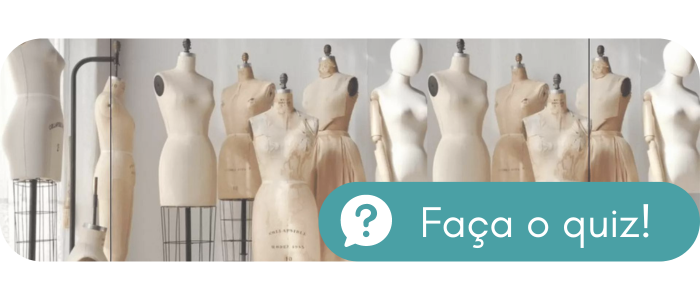
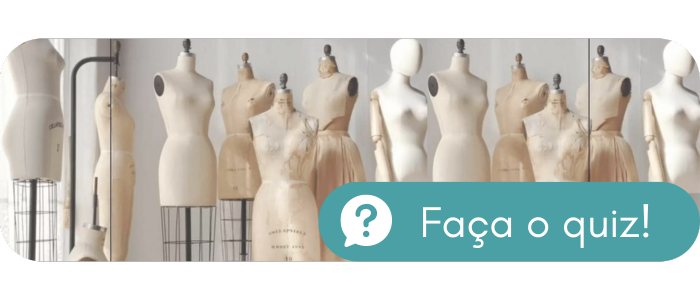
atualizado

diff --git a/lib/menu.dart b/lib/menu.dart
@@ -104,7 +104,7 @@ class Menu extends StatelessWidget {
                                                 borderRadius: BorderRadius.circular(30), // Define o raio dos cantos
                                                 child: SizedBox(
                                                     width: 110,
-                                                    child: Image.asset('assets/imgs/imagem1.jpg'),
+                                                    child: Image.asset('assets/imgs/imagem1.png'),
                                                 ),
                                             ),
                                             Padding(
@@ -113,7 +113,7 @@ class Menu extends StatelessWidget {
                                                     borderRadius: BorderRadius.circular(30), // Define o raio dos cantos
                                                     child: SizedBox(
                                                         width: 110,
-                                                        child: Image.asset('assets/imgs/imagem2.jpg'),
+                                                        child: Image.asset('assets/imgs/imagem2.png'),
                                                     ),
                                                 ),
                                             ),
@@ -123,7 +123,7 @@ class Menu extends StatelessWidget {
                                                     borderRadius: BorderRadius.circular(30), // Define o raio dos cantos
                                                     child: SizedBox(
                                                         width: 110,
-                                                        child: Image.asset('assets/imgs/imagem3.jpg'),
+                                                        child: Image.asset('assets/imgs/imagem3.png'),
                                                     ),
                                                 ),
                                             ),
@@ -133,7 +133,7 @@ class Menu extends StatelessWidget {
                                                     borderRadius: BorderRadius.circular(30), // Define o raio dos cantos
                                                     child: SizedBox(
                                                         width: 110,
-                                                        child: Image.asset('assets/imgs/imagem4.jpg'),
+                                                        child: Image.asset('assets/imgs/imagem4.png'),
                                                     ),
                                                 ),
                                             ),
@@ -143,7 +143,7 @@ class Menu extends StatelessWidget {
                                                     borderRadius: BorderRadius.circular(30), // Define o raio dos cantos
                                                     child: SizedBox(
                                                         width: 110,
-                                                        child: Image.asset('assets/imgs/imagem5.jpg'),
+                                                        child: Image.asset('assets/imgs/imagem5.png'),
                                                     ),
                                                 ),
                                             ),
